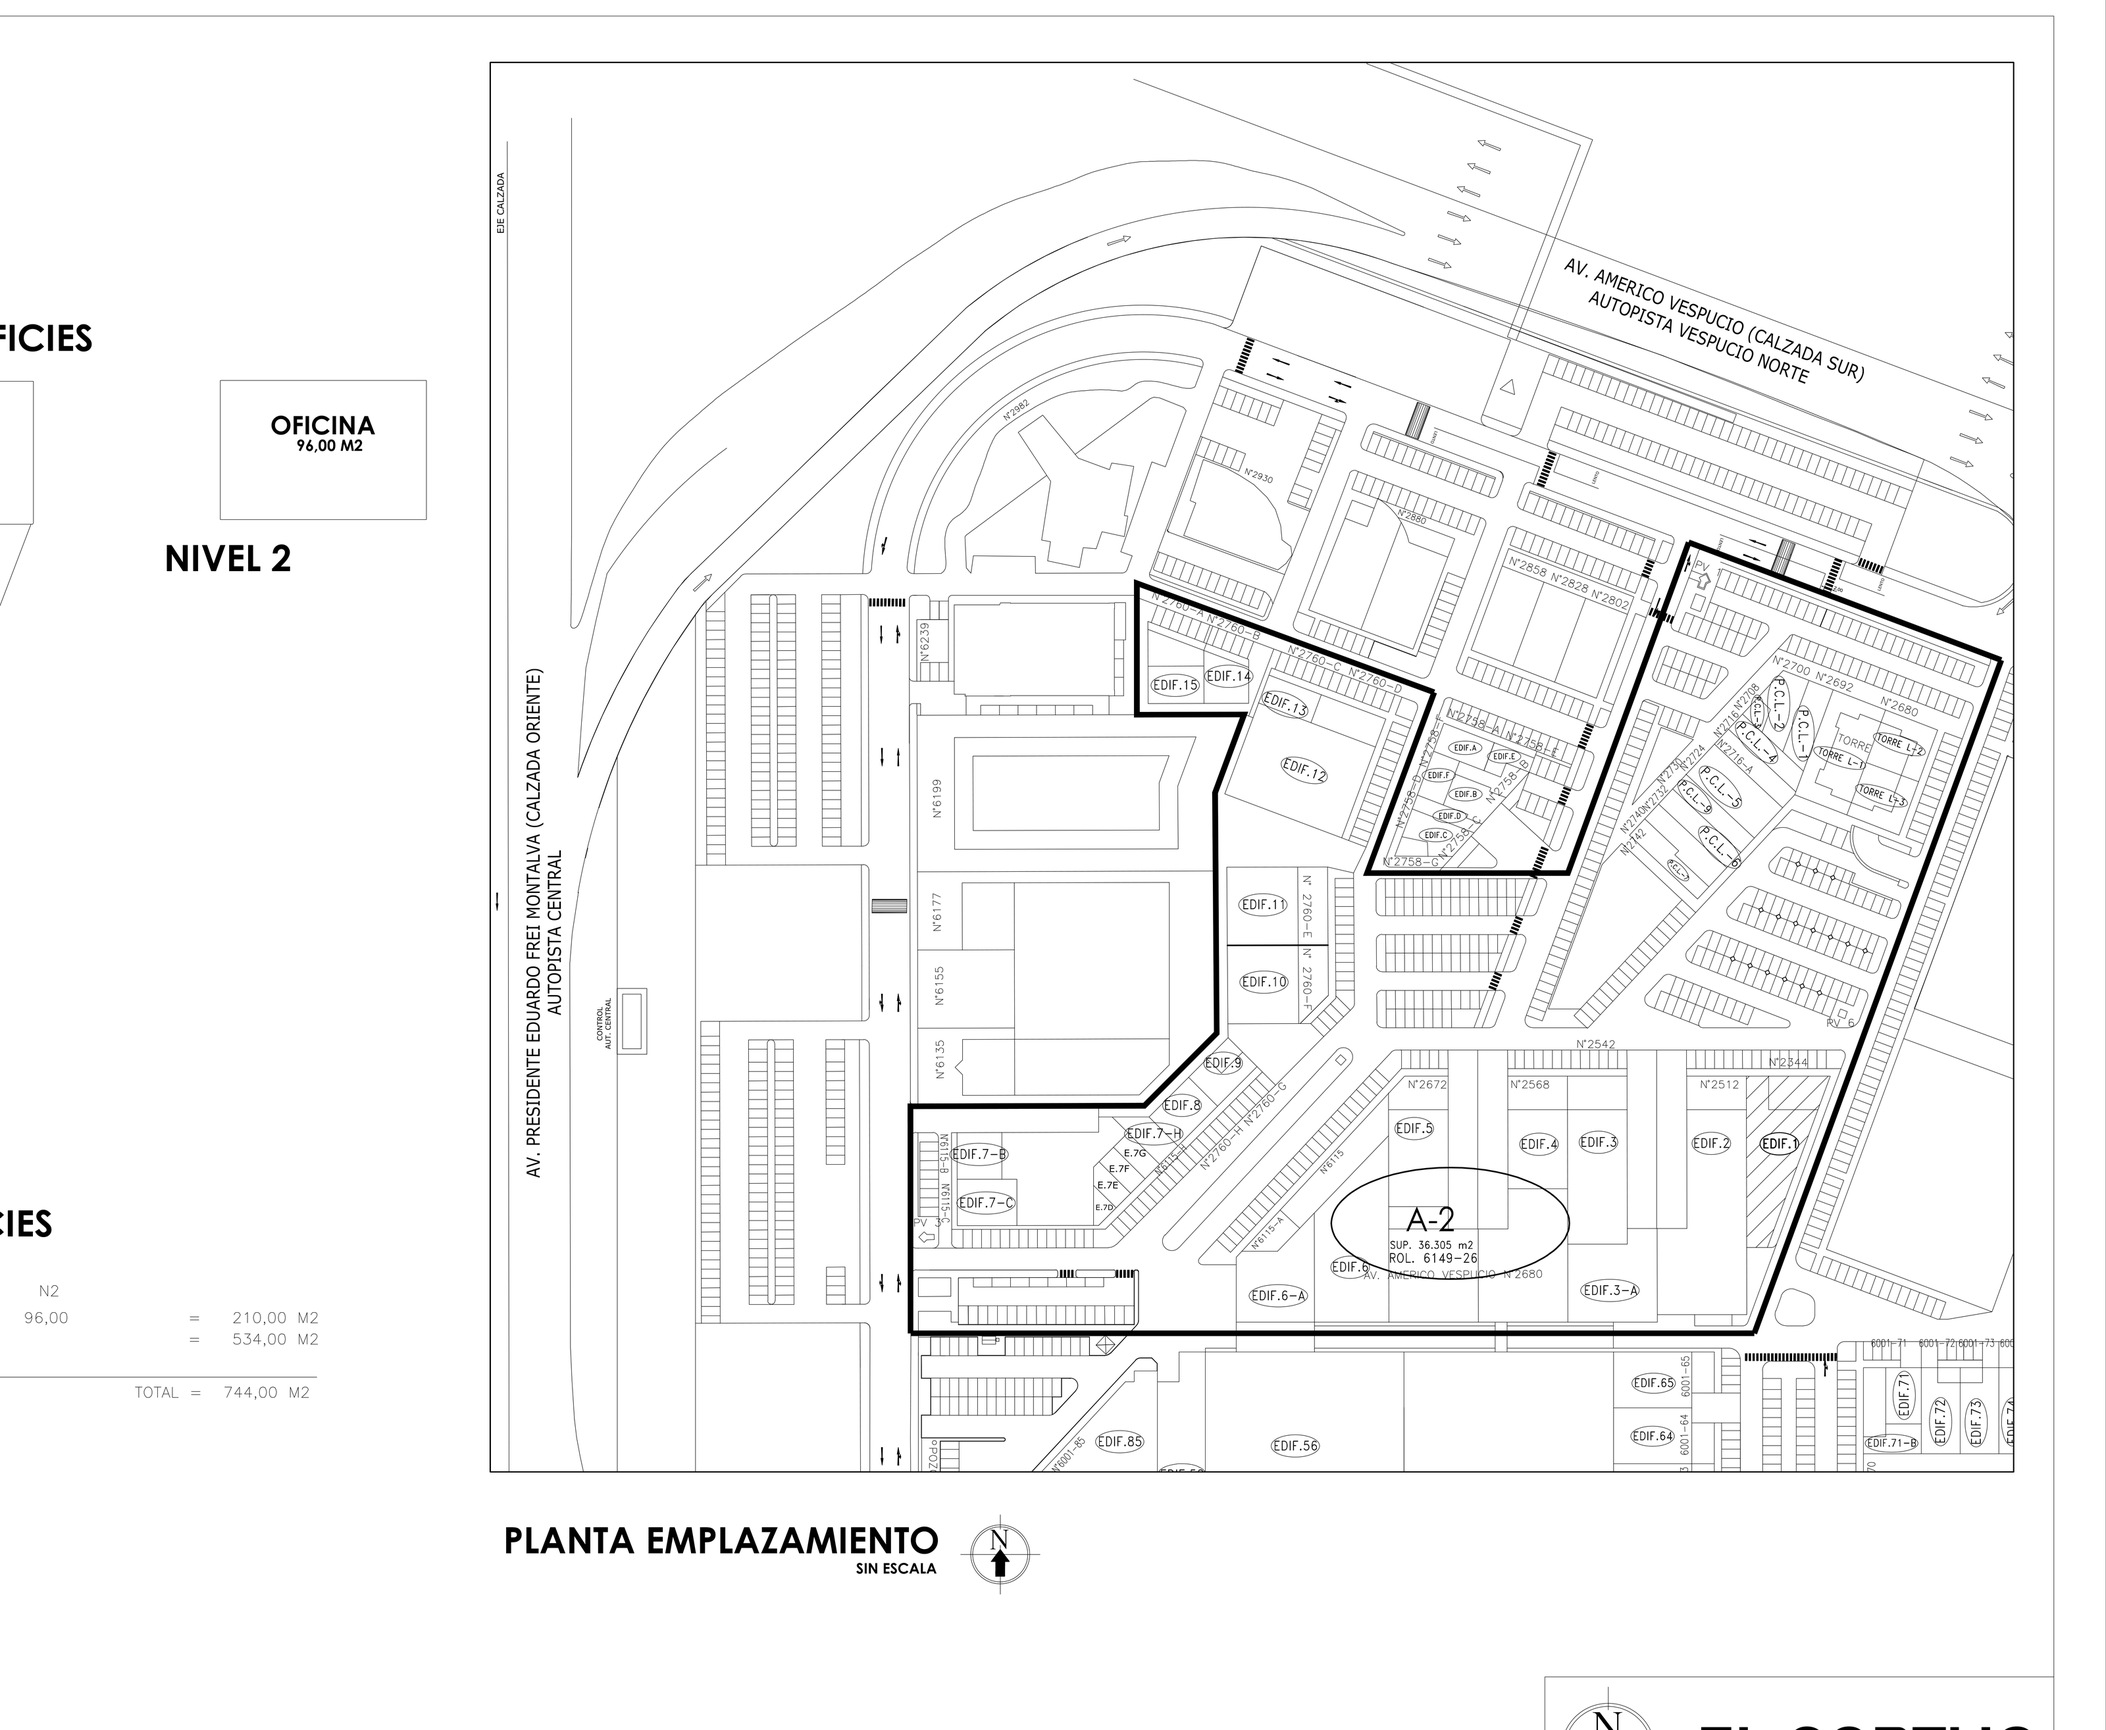
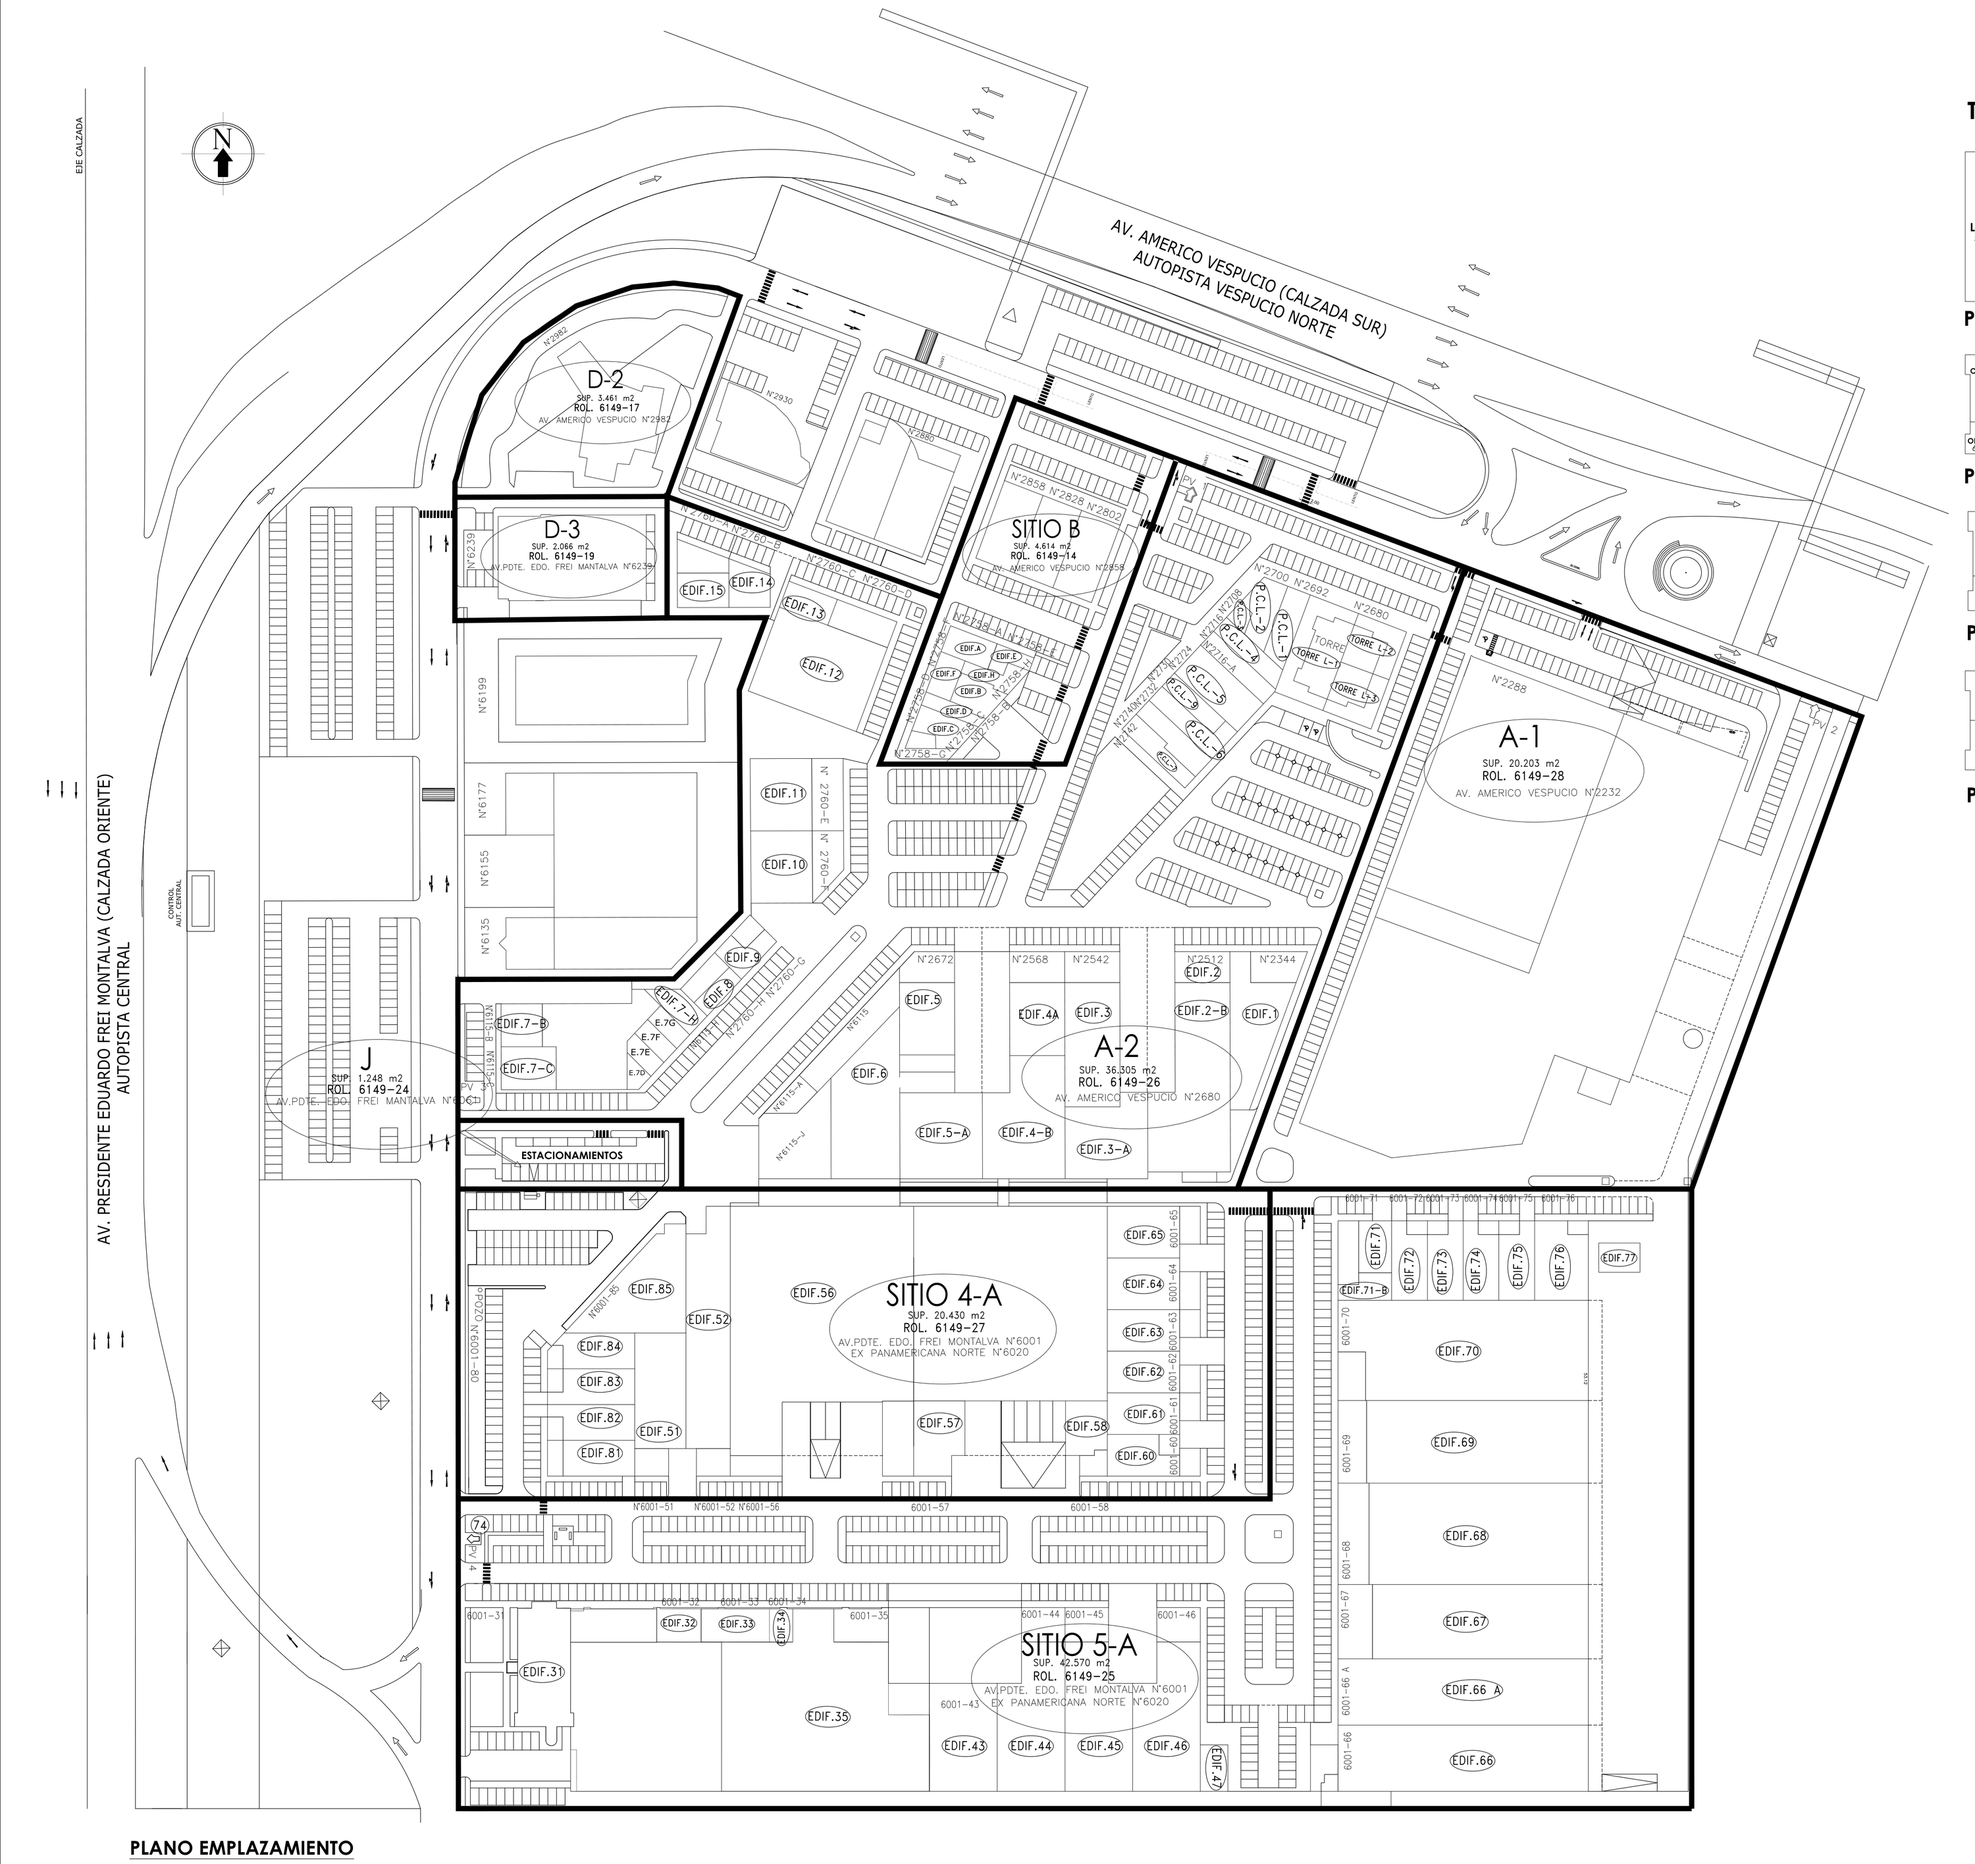
feat: plano general clickeable que navega a cada sub-mapa de sector
Reemplaza el fondo del plano general por el nuevo "El Cortijo 2026.pdf"
(mayo 2026, más completo y actualizado — muestra deslindes de D-2, D-3,
J, Sitio B, A-2, A-1, Sitio 4-A y Sitio 5-A). Se agregan zonas
clickeables sobre los deslindes de Sitio B, A-2, Sitio 4-A y Sitio 5-A
(y un recuadro manual para A-2 Locales, que no tiene deslinde propio
dibujado ahí) que llevan directo al sub-mapa de cada sector, igual que
los botones del encabezado.

diff --git a/index.html b/index.html
@@ -4126,6 +4126,19 @@ const CORTIJO_4A=[
   {edif:"Edif. 85 B",m2:345,x:18,y:5,w:5,h:8,nota:"Ficha \"Edificio 85 B Piso 1.pdf\": 133+212 (N1) — la ficha menciona un Nivel 2 (hall+70,30) no incluido en este total, a verificar"},
 ];
 const CORTIJO_TODAS={a2:CORTIJO_A2,a2locales:CORTIJO_A2LOCALES,b:CORTIJO_B,"4a":CORTIJO_4A};
+/* Zonas clickeables del plano general (cortijo-emplazamiento.png) que
+   navegan al sub-plano de cada sector. Coordenadas aproximadas sobre los
+   deslindes gruesos del plano de emplazamiento general (El Cortijo 2026.pdf,
+   mayo 2026) — A-2 Locales no tiene deslinde propio dibujado ahí (el clúster
+   de P.C.L. queda fuera de los polígonos de Sitio B y A-1), así que su zona
+   es un recuadro manual sobre esa área. */
+const CORTIJO_ZONAS=[
+  {id:"b",label:"Sitio B",x:44.75,y:14.8,w:9.5,h:16.45},
+  {id:"a2locales",label:"A-2 Locales",x:54.25,y:26.0,w:10.25,h:15.8},
+  {id:"a2",label:"A-2",x:42.75,y:47.4,w:21.75,h:10.3},
+  {id:"4a",label:"Sitio 4-A",x:22.75,y:57.7,w:61.75,h:18.6},
+  {id:"5a",label:"Sitio 5-A",x:22.75,y:76.3,w:61.75,h:21.7},
+];
 function ElCortijoView({dashData,driveLoading}){
   const [zoomUnidad,setZoomUnidad]=useState(null);
   const [sector,setSector]=useState(null); /* null = plano general | "a2"|"a2locales"|"4a"|"b"|"5a" */
@@ -4269,7 +4282,21 @@ function ElCortijoView({dashData,driveLoading}){
                     driveLoading?h(React.Fragment,null,h("span",{className:"fv2-loader",style:{width:18,height:18,fontSize:18}}),"Cargando planilla desde Drive..."):"Sin datos — carga la planilla de facturación")
                 :h("div",{style:{position:"relative",width:"100%",maxWidth:1100,transformOrigin:cx+"% "+cy+"%",transform:zoomUnidad?"scale(4.2)":"scale(1)",transition:"transform .65s cubic-bezier(.4,0,.2,1)"}},
                     h("img",{src:activeImg,style:{width:"100%",display:"block",borderRadius:8,boxShadow:"0 4px 24px rgba(0,0,0,.15)"}}),
-                    activeUnidades.map(u=>{
+                    sector===null
+                      ?CORTIJO_ZONAS.map(z=>h("div",{
+                          key:z.id,
+                          onClick:()=>setSector(z.id),
+                          title:z.label,
+                          style:{
+                            position:"absolute",left:z.x+"%",top:z.y+"%",width:z.w+"%",height:z.h+"%",
+                            border:"2px dashed var(--acc)",borderRadius:6,cursor:"pointer",
+                            display:"flex",alignItems:"center",justifyContent:"center",
+                            background:"rgba(91,76,219,.08)",transition:"background .2s"
+                          },
+                          onMouseEnter:e=>{e.currentTarget.style.background="rgba(91,76,219,.22)";},
+                          onMouseLeave:e=>{e.currentTarget.style.background="rgba(91,76,219,.08)";}
+                        },h("span",{style:{fontSize:12,fontWeight:700,color:"var(--acc)",background:"var(--surf)",padding:"2px 8px",borderRadius:6,whiteSpace:"nowrap"}},z.label+" →")))
+                      :activeUnidades.map(u=>{
                       const pl=matchPlanilla(u.edif);
                       const vac=pl?.isVacante;
                       const disc=u.m2!=null&&pl?.m2!=null&&Math.abs(u.m2-pl.m2)>1;
